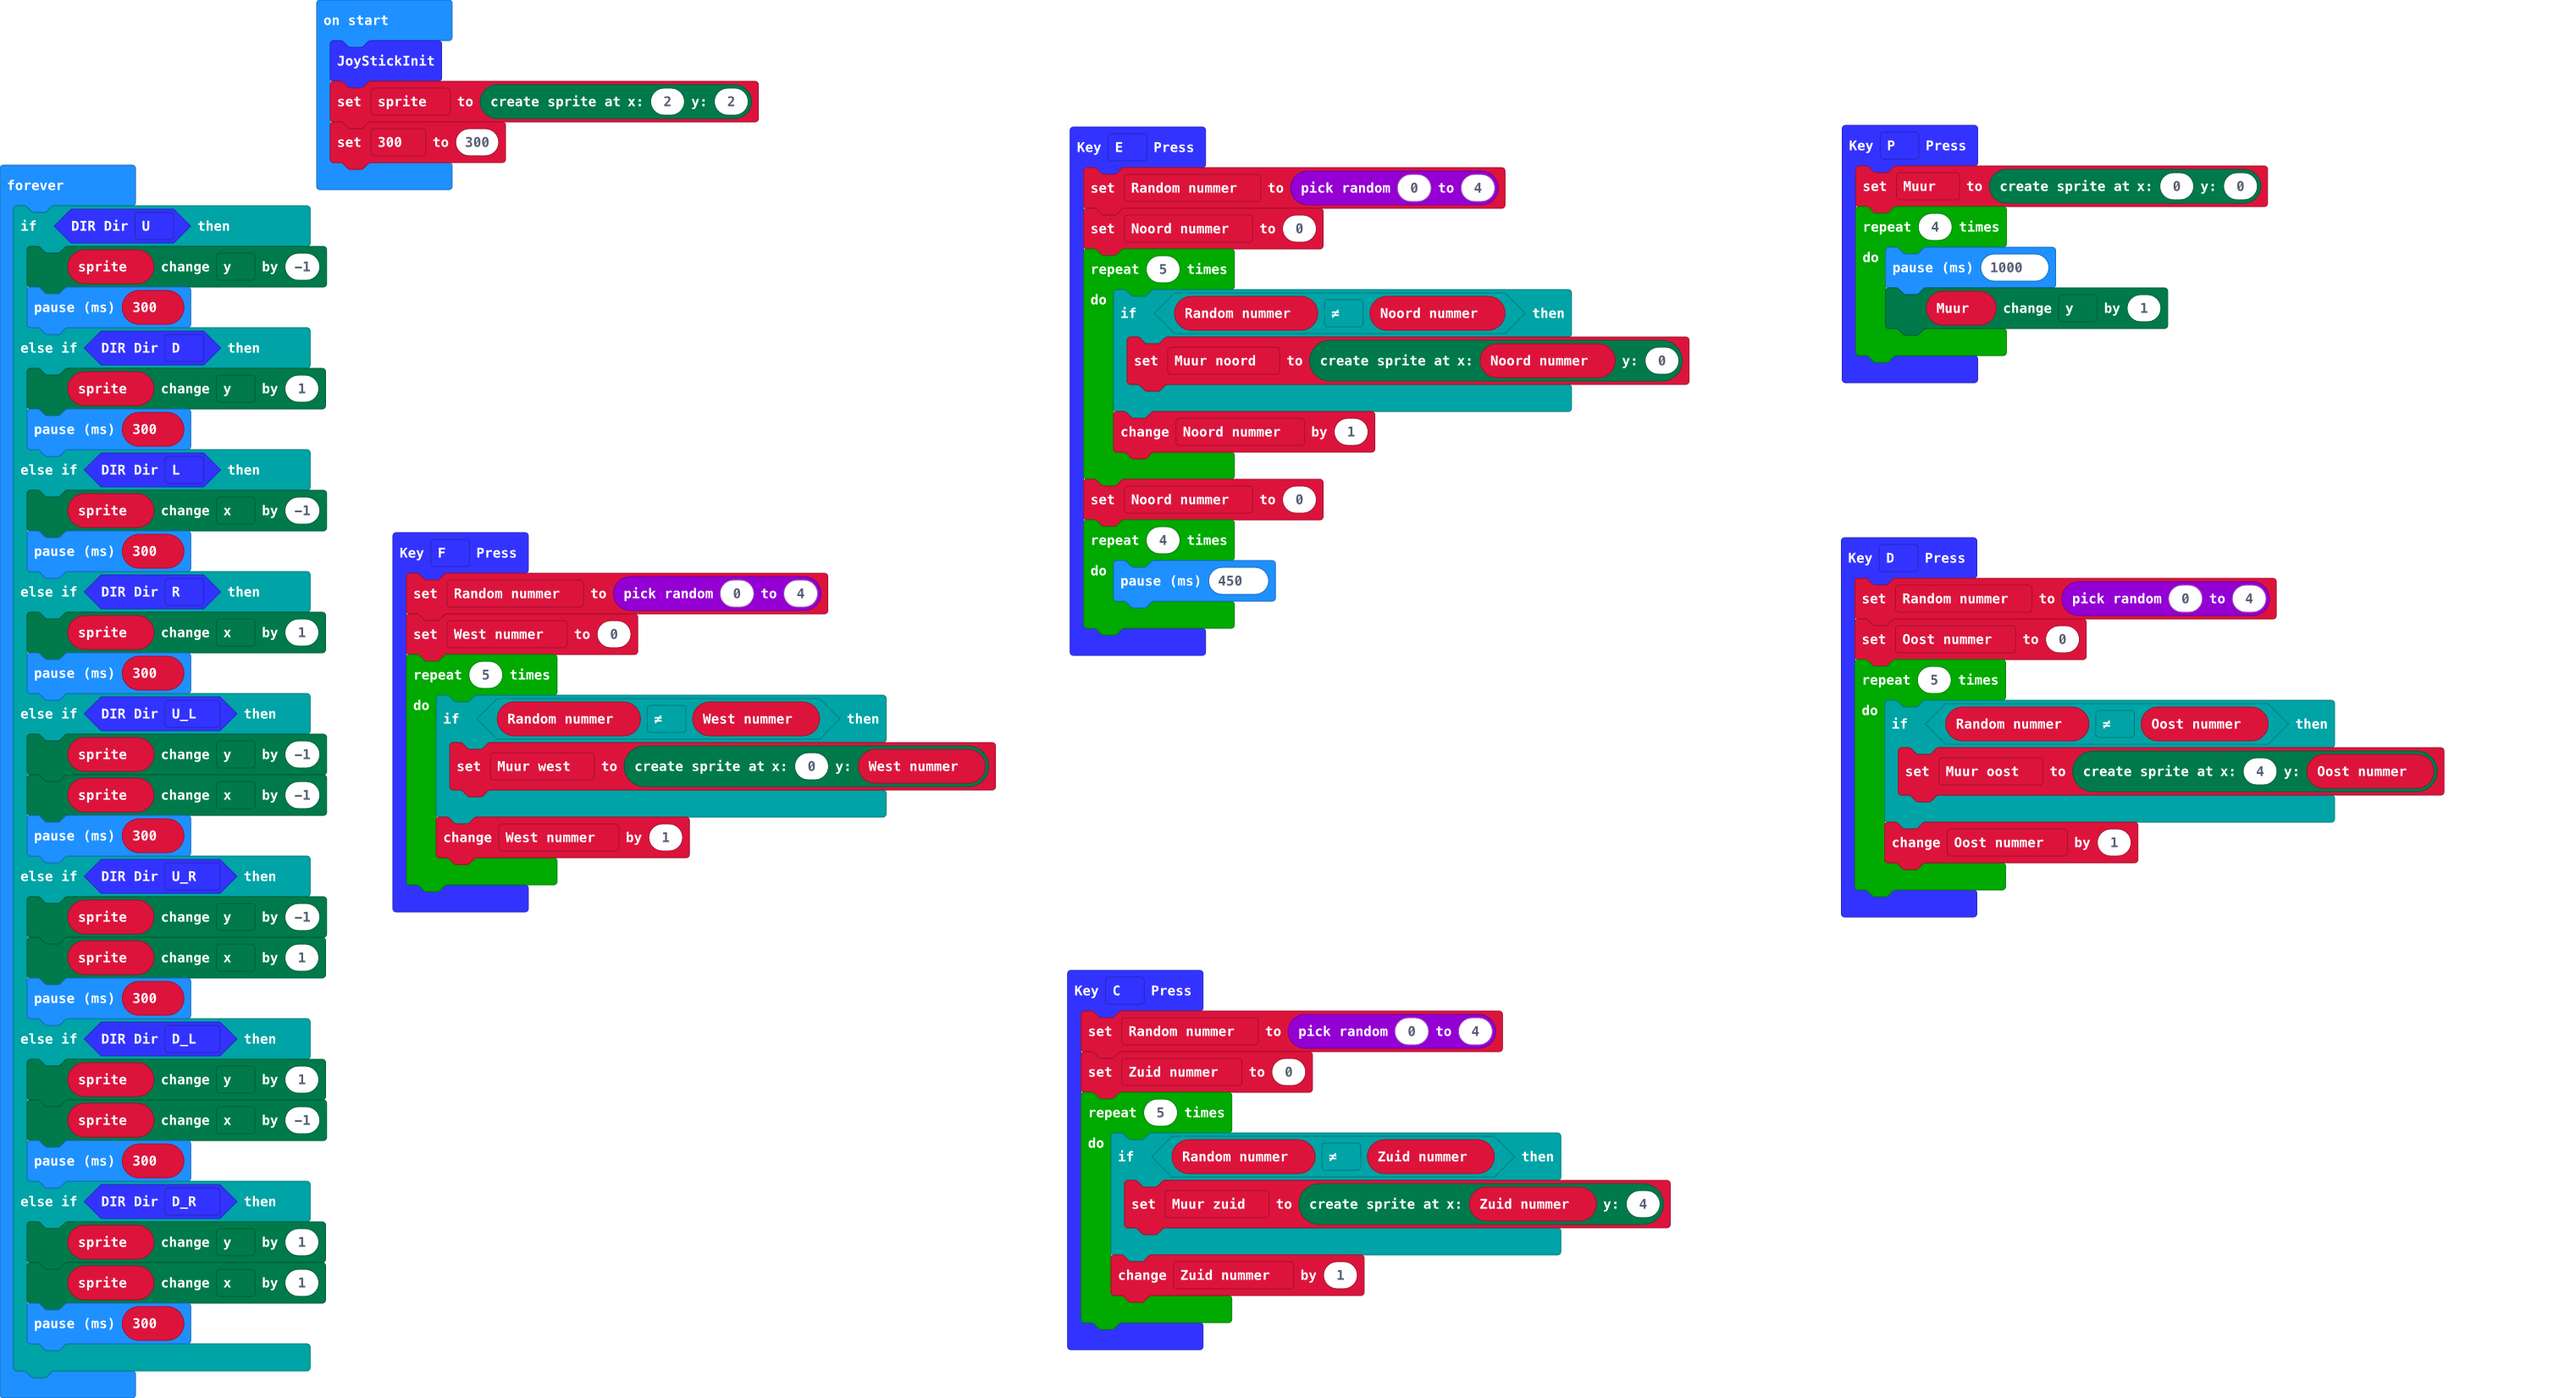
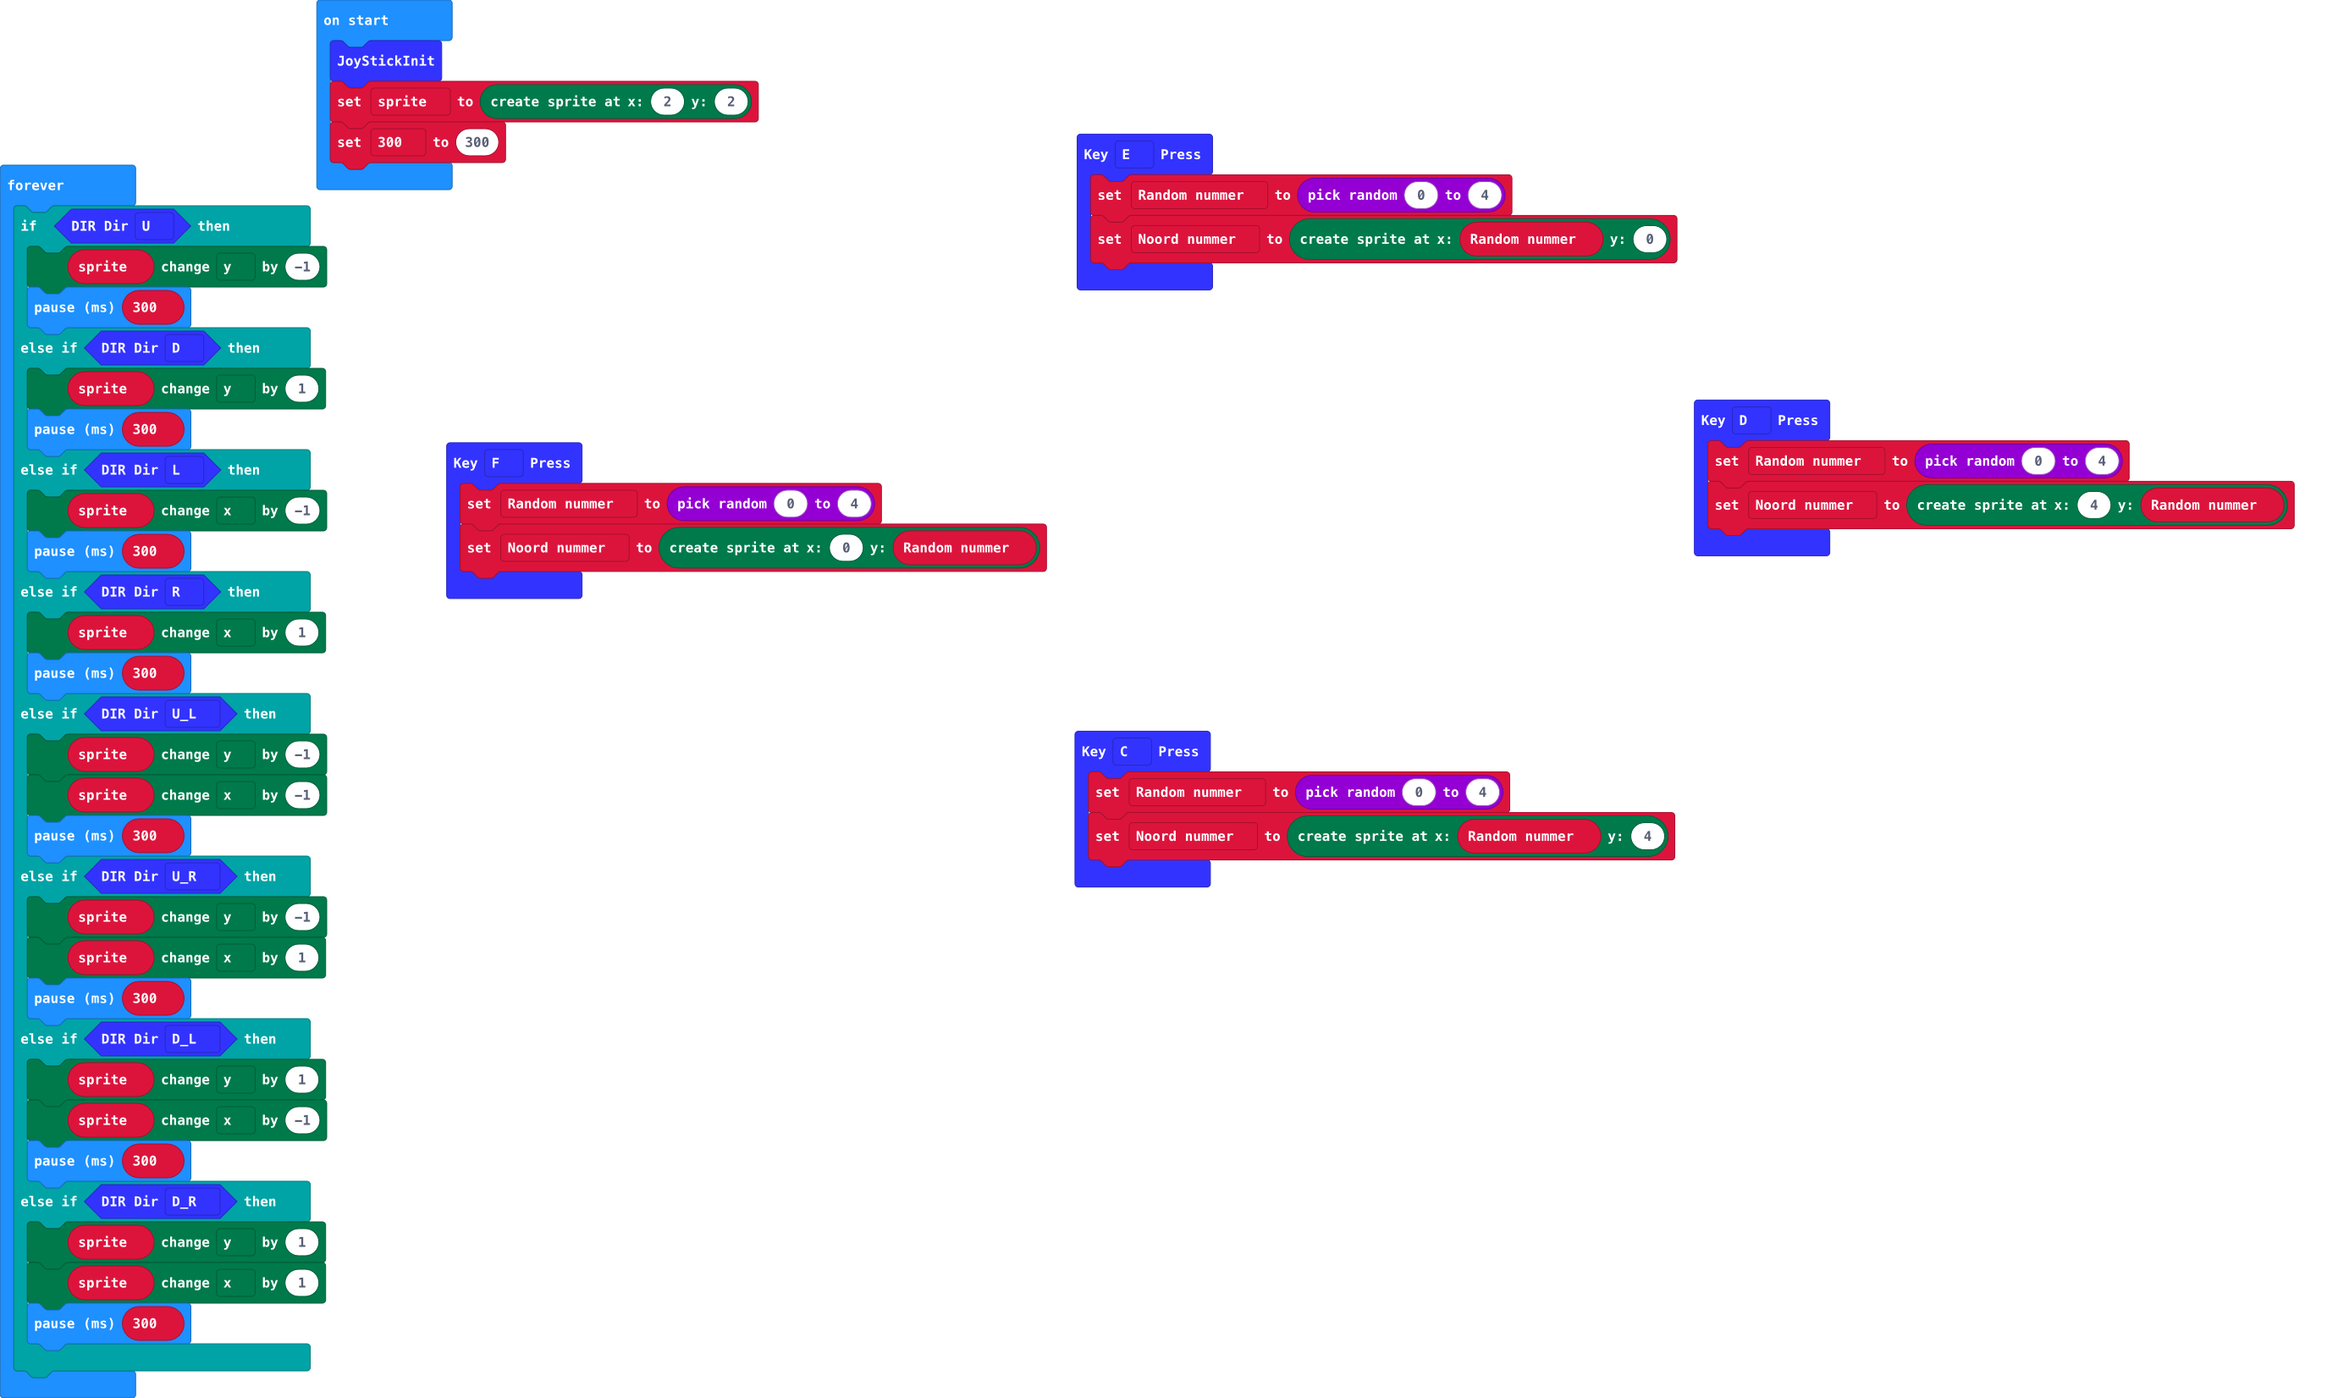
geen muur maar sprites

diff --git a/main.ts b/main.ts
@@ -1,63 +1,20 @@
 WSJoyStick.onKey(KEY.F, function () {
     Random_nummer = randint(0, 4)
-    West_nummer = 0
-    for (let index = 0; index < 5; index++) {
-        if (Random_nummer != West_nummer) {
-            Muur_west = game.createSprite(0, West_nummer)
-        }
-        West_nummer += 1
-    }
-})
-WSJoyStick.onKey(KEY.P, function () {
-    Muur = game.createSprite(0, 0)
-    for (let index = 0; index < 4; index++) {
-        basic.pause(1000)
-        Muur.change(LedSpriteProperty.Y, 1)
-    }
+    Noord_nummer = game.createSprite(0, Random_nummer)
 })
 WSJoyStick.onKey(KEY.E, function () {
     Random_nummer = randint(0, 4)
-    Noord_nummer = 0
-    for (let index = 0; index < 5; index++) {
-        if (Random_nummer != Noord_nummer) {
-            Muur_noord = game.createSprite(Noord_nummer, 0)
-        }
-        Noord_nummer += 1
-    }
-    Noord_nummer = 0
-    for (let index = 0; index < 4; index++) {
-        basic.pause(450)
-    }
+    Noord_nummer = game.createSprite(Random_nummer, 0)
 })
 WSJoyStick.onKey(KEY.D, function () {
     Random_nummer = randint(0, 4)
-    Oost_nummer = 0
-    for (let index = 0; index < 5; index++) {
-        if (Random_nummer != Oost_nummer) {
-            Muur_oost = game.createSprite(4, Oost_nummer)
-        }
-        Oost_nummer += 1
-    }
+    Noord_nummer = game.createSprite(4, Random_nummer)
 })
 WSJoyStick.onKey(KEY.C, function () {
     Random_nummer = randint(0, 4)
-    Zuid_nummer = 0
-    for (let index = 0; index < 5; index++) {
-        if (Random_nummer != Zuid_nummer) {
-            Muur_zuid = game.createSprite(Zuid_nummer, 4)
-        }
-        Zuid_nummer += 1
-    }
+    Noord_nummer = game.createSprite(Random_nummer, 4)
 })
-let Muur_zuid: game.LedSprite = null
-let Zuid_nummer = 0
-let Muur_oost: game.LedSprite = null
-let Oost_nummer = 0
-let Muur_noord: game.LedSprite = null
-let Noord_nummer = 0
-let Muur: game.LedSprite = null
-let Muur_west: game.LedSprite = null
-let West_nummer = 0
+let Noord_nummer: game.LedSprite = null
 let Random_nummer = 0
 WSJoyStick.JoyStickInit()
 let sprite = game.createSprite(2, 2)
